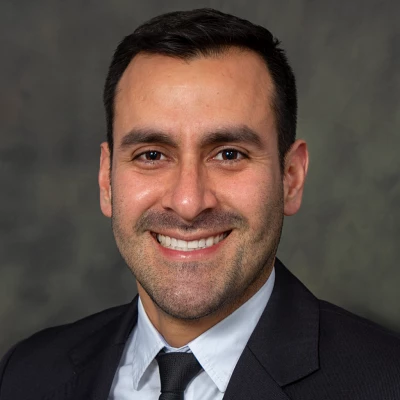
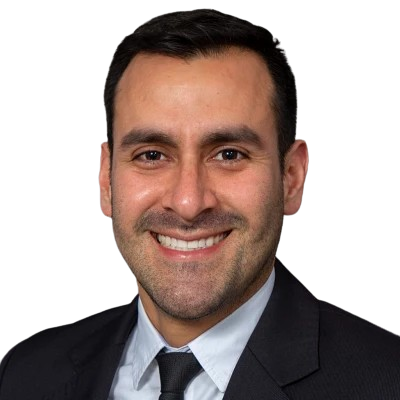
Remove bg picture and add team member

diff --git a/team.html b/team.html
@@ -65,7 +65,7 @@
                     <div class="team-member-full">
                         <a href="https://dentistry.unc.edu/person/lucia-cevidanes/"style="text-decoration: none; color: inherit;">
                         <div class="member-photo-large">
-                            <img src="images/Team/lucia.jpeg">
+                            <img src="images/Team/lucia.png">
                         </div>
                         <div class="member-details">
                             <h3 class="member-name">Dr. Lucia Cevidanes</h3>
@@ -85,7 +85,7 @@
                     <div class="team-member-full">
                         <a href="https://www.med.unc.edu/psych/people/juan-prieto-phd/"style="text-decoration: none; color: inherit;">
                         <div class="member-photo-large">
-                            <img src="images/Team/juanprieto.jpeg">
+                            <img src="images/Team/juanprieto.png">
                         </div>
                         <div class="member-details">
                             <h3 class="member-name">Dr. Juan Prieto</h3>
@@ -102,7 +102,7 @@
                     <div class="team-member-full">
                         <a href="https://www.linkedin.com/in/alexandre-buiss/"style="text-decoration: none; color: inherit;">
                         <div class="member-photo-large">
-                            <img src="images/Team/alexandrebuisson.jpeg">
+                            <img src="images/Team/alexandrebuisson.png">
                         </div>
                         <div class="member-details">
                             <h3 class="member-name">Alexandre Buisson</h3>
@@ -119,7 +119,7 @@
                     <div class="team-member-full">
                         <a href="https://www.linkedin.com/in/paul-dumont1544/"style="text-decoration: none; color: inherit;">
                         <div class="member-photo-large">
-                            <img src="images/Team/pauldumont.jpeg">
+                            <img src="images/Team/pauldumont.png">
                         </div>
                         <div class="member-details">
                             <h3 class="member-name">Paul Dumont</h3>
@@ -136,7 +136,7 @@
                     <div class="team-member-full">
                         <a href="https://dentistry.unc.edu/person/tung-nguyen/"style="text-decoration: none; color: inherit;">
                         <div class="member-photo-large">
-                            <img src="images/Team/tungnguyen.webp">
+                            <img src="images/Team/tungnguyen.png">
                         </div>
                         <div class="member-details">
                             <h3 class="member-name">Tung Nguyen</h3>
@@ -152,7 +152,7 @@
 
                     <div class="team-member-full">
                         <div class="member-photo-large">
-                            <img src="images/Team/Yanjie-Huang.jpg">
+                            <img src="images/Team/Yanjie-Huang.png">
                         </div>
                         <div class="member-details">
                             <h3 class="member-name">Yanjie Huang</h3>
@@ -175,6 +175,7 @@
                     <p class="university-location">Ann Arbor, Michigan, USA</p>
                 </div>
                 <div class="team-grid-full">
+
                     <div class="team-member-full">
                         <a href="https://dent.umich.edu/directory/aron-aliaga-del-castillo-dds-ms-phd"style="text-decoration: none; color: inherit;">
                         <div class="member-photo-large">
@@ -183,6 +184,23 @@
                         <div class="member-details">
                             <h3 class="member-name">Dr. Aron Aliaga</h3>
                             <p class="member-role">Clinical Assistant Professor</p>
+                            <p class="member-bio">Working hard on facial Asymmetry to improve clinical outcomes, using AI algorithms to integrate AI into clinical orthodontics.</p>
+                            <div class="member-expertise">
+                                <span class="expertise-tag">Clinical Orthodontics</span>
+                                <span class="expertise-tag">3D Imaging</span>
+                                <span class="expertise-tag">Facial Asymmetry</span>
+                            </div></a>
+                        </div>
+                    </div>
+
+                    <div class="team-member-full">
+                        <a href="https://dent.umich.edu/directory/aron-aliaga-del-castillo-dds-ms-phd"style="text-decoration: none; color: inherit;">
+                        <div class="member-photo-large">
+                            <img src="images/Team/Janson_Ng.png">
+                        </div>
+                        <div class="member-details">
+                            <h3 class="member-name">Janson Ng</h3>
+                            <p class="member-role">Orthodontic Resident</p>
                             <p class="member-bio">Expert in 3D craniofacial imaging, AI applications in orthodontics, and evidence-based clinical treatment outcomes.</p>
                             <div class="member-expertise">
                                 <span class="expertise-tag">Orthodontics</span>
@@ -191,6 +209,7 @@
                             </div></a>
                         </div>
                     </div>
+
                 </div>
             </section>
 
@@ -203,7 +222,7 @@
                 <div class="team-member-full">
                     <a href="https://www.pacific.edu/campus-directory/jonas-bianchi"style="text-decoration: none; color: inherit;">
                         <div class="member-photo-large">
-                            <img src="images/Team/Jonas-Bianchi.webp">
+                            <img src="images/Team/Jonas-Bianchi.png">
                         </div>
                         <div class="member-details">
                             <h3 class="member-name">Dr. Jonas Bianchi</h3>
@@ -229,7 +248,7 @@
                     <div class="team-member-full">
                         <a href="https://education.aaoinfo.org/b/sp/antonio-ruellas-4073"style="text-decoration: none; color: inherit;">
                         <div class="member-photo-large">
-                            <img src="images/Team/antonioruellas.jpg">
+                            <img src="images/Team/antonioruellas.png">
                         </div>
                         <div class="member-details">
                             <h3 class="member-name">Dr. Antonio Ruellas</h3>

diff --git a/index.html b/index.html
@@ -112,7 +112,7 @@
                     <div class="team-member">
                         <a href="https://dentistry.unc.edu/person/lucia-cevidanes/"style="text-decoration: none; color: inherit;">
                         <div class="member-photo">
-                            <img src="images/Team/lucia.jpeg">
+                            <img src="images/Team/lucia.png">
                         </div>
                         <h4 class="member-name">Dr. Lucia Cevidanes</h4>
                         <p class="member-role">Principal Investigator</p>
@@ -135,7 +135,7 @@
                     <div class="team-member">
                         <a href="https://www.pacific.edu/campus-directory/jonas-bianchi"style="text-decoration: none; color: inherit;">
                         <div class="member-photo">
-                            <img src="images/Team/Jonas-Bianchi.webp" alt="Dr. Jonas Bianchi">
+                            <img src="images/Team/Jonas-Bianchi.png" alt="Dr. Jonas Bianchi">
                         </div>
                         <h4 class="member-name">Dr. Jonas Bianchi</h4>
                         <p class="member-role">Director of Research</p>
@@ -146,7 +146,7 @@
                     <div class="team-member">
                         <a href="https://www.med.unc.edu/psych/people/juan-prieto-phd/"style="text-decoration: none; color: inherit;">
                         <div class="member-photo">
-                            <img src="images/Team/juanprieto.jpeg">
+                            <img src="images/Team/juanprieto.png">
                         </div>
                         <h4 class="member-name">Dr. Juan Prieto</h4>
                         <p class="member-role">Computer Scientist</p>
@@ -157,7 +157,7 @@
                     <div class="team-member">
                         <a href="https://www.linkedin.com/in/alexandre-buiss/"style="text-decoration: none; color: inherit;">
                         <div class="member-photo">
-                            <img src="images/Team/alexandrebuisson.jpeg">
+                            <img src="images/Team/alexandrebuisson.png">
                         </div>
                         <h4 class="member-name">Alexandre Buisson</h4>
                         <p class="member-role">Software Engineer</p>
@@ -168,7 +168,7 @@
                     <div class="team-member">
                         <a href="https://www.linkedin.com/in/paul-dumont1544/"style="text-decoration: none; color: inherit;">
                         <div class="member-photo">
-                            <img src="images/Team/pauldumont.jpeg">
+                            <img src="images/Team/pauldumont.png">
                         </div>
                         <h4 class="member-name">Paul Dumont</h4>
                         <p class="member-role">Software Engineer</p>
